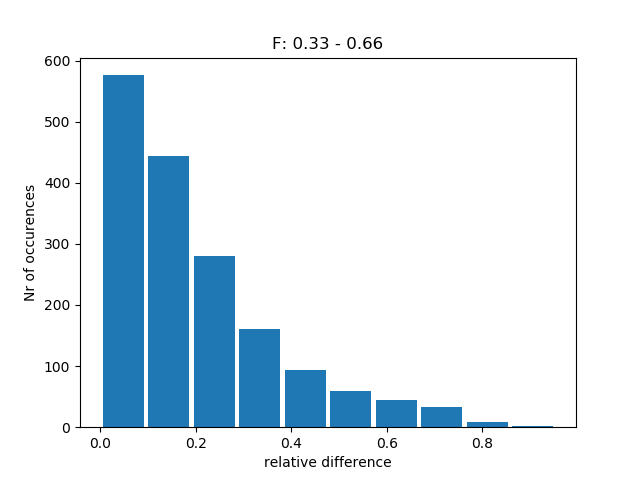
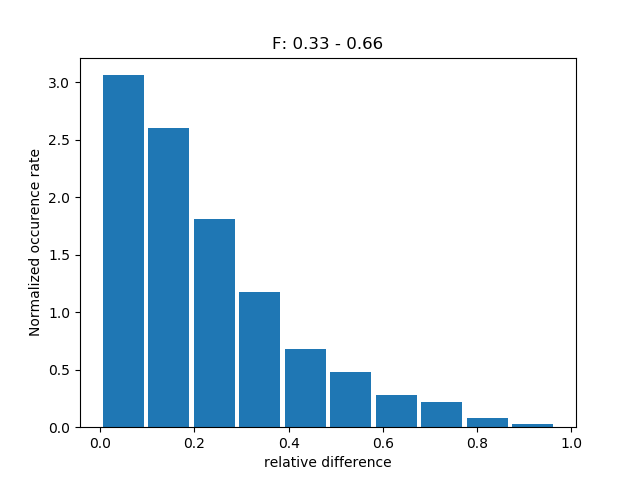
Started multi_SWARMreader.py; discovered holes in SWARM data

diff --git a/SWARM/multi_SWARMreader.py b/SWARM/multi_SWARMreader.py
@@ -1,0 +1,133 @@
+"""
+CDF_LIB must be in the correct file path to run
+"""
+import numpy as np
+import matplotlib.pyplot as plt
+from SWARMprocess import SWARMprocess
+from general_SWARMreader import GenSWARMread
+#setting path to cdf library
+from getpass import getuser
+usrname = getuser()
+import os
+os.environ["CDF_LIB"] = "/home/" + usrname +  "/Libraries/cdf/cdf36_3-dist/lib"
+from spacepy import pycdf
+
+
+class MultiSWARM():
+    """
+    Class for reading multiple files of SWARM data.
+    Designed for specific file structures.
+    """
+
+    def __init__(self, year1, month1, day1, year2, month2, day2):
+        """
+        parameters:
+            year1 - int; year of first data file
+            month1 - int; month of first data file
+            day1 - int; day of first data file
+            year2 - int; year of last data file
+            month2 - int; month of last data file
+            day2 - int; day of last data file
+        """
+        self.year1 = year1
+        self.month1 = month1
+        self.day1 = day1
+        self.year2 = year2
+        self.month2 = month2
+        self.day2 = day2
+
+        self.data_path = "/home/" + usrname +  "/Documents/Master/Swarm_Data"
+
+
+
+    def filenames(self, year, month, day):
+        """
+        Takes a date and returns a list of file path strings.
+        parameters:
+            year - int; year of data files yyyy
+            month - int; month of data files mm
+            day - int; day of data files dd
+        returns:
+            files - list; file paths on the form ["satA", "satB", "satC"]
+        """
+        data_path = self.data_path
+
+        year = str(year)
+        if len(year) != 4:
+            raise ValueError("year must be on form yyyy")
+
+        month = str(month)
+        if len(month) == 1:
+            month = "0" + month
+
+        day = str(day)
+        if len(day) == 1:
+            day = "0" + day
+
+        date = year + month + day
+        t0 = "T000000_"
+        t1 = "T235959_0501"
+
+        cdfA_path = data_path + "/Sat_A/SW_OPER_EFIA_LP_1B_" + date + t0 + date\
+        + t1 + ".CDF/SW_OPER_EFIA_LP_1B_" + date + t0 + date + t1 + "_MDR_EFI_LP.cdf"
+
+        cdfB_path = data_path + "/Sat_B/SW_OPER_EFIB_LP_1B_" + date + t0 + date\
+         + t1 + ".CDF/SW_OPER_EFIB_LP_1B_" + date + t0 + date + t1 + "_MDR_EFI_LP.cdf"
+
+        cdfC_path = data_path + "/Sat_C/SW_OPER_EFIC_LP_1B_" + date + t0 + date\
+         + t1 + ".CDF/SW_OPER_EFIC_LP_1B_" + date + t0 + date + t1 + "_MDR_EFI_LP.cdf"
+
+        files = [cdfA_path, cdfB_path, cdfC_path]
+
+        return(files)
+
+    def gen_filenames(self, ind):
+        """
+        Generalized version of filenames. Takes an index n and returns
+        filepaths of sats A, B and C for the day of the given index in directory.
+        example: ind 0 gives first day. ind 21 gives 21st day.
+        parameters:
+            ind - int; index of day in directory
+        returns:
+            files - list; list of filepaths on the form [satA, satB, satC]
+        """
+
+        pathA = self.data_path + "/Sat_A"
+        dirsA = os.listdir(pathA)
+        dirsA.sort()
+        pathA = pathA + "/" + dirsA[ind]
+        cdfA = os.listdir(pathA)
+        cdfA.sort()
+        pathA = pathA + "/" + cdfA[1]
+
+        pathB = self.data_path + "/Sat_B"
+        dirsB = os.listdir(pathB)
+        dirsB.sort()
+        pathB = pathB + "/" + dirsB[ind]
+        cdfB = os.listdir(pathB)
+        cdfB.sort()
+        pathB = pathB + "/" + cdfB[1]
+
+        pathC = self.data_path + "/Sat_A"
+        dirsC = os.listdir(pathC)
+        dirsC.sort()
+        pathC = pathC + "/" + dirsC[ind]
+        cdfC = os.listdir(pathC)
+        cdfC.sort()
+        pathC = pathC + "/" + cdfC[1]
+
+        files = [pathA, pathB, pathC]
+
+        print(pathA)
+        print(pathB)
+        print(pathC)
+        return(files)
+
+if __name__ == "__main__":
+    object = MultiSWARM(1,1,1,2,2,2)
+    files = object.gen_filenames(25)
+
+    genread = GenSWARMread(files[0], files[1], files[2])
+    hists, bins = genread.histmake()
+    plt.bar(bins[0], hists[0], width = (bins[0][1] - bins[0][0])*0.9)
+    plt.show()

diff --git a/SWARM/general_SWARMreader.py b/SWARM/general_SWARMreader.py
@@ -57,7 +57,8 @@ class GenSWARMread(SWARMprocess):
         self.BA_shift = self.timeshift_latitude(self.latB, self.latA)
         self.BC_shift = self.timeshift_latitude(self.latB, self.latC)
 
-    def histmake(self, n = 200, t0 = 0, t1 = 85000, minfreq = 0, maxfreq = True):
+    def histmake(self, n = 100, t0 = 0, t1 = 85000, minfreq = 0, maxfreq = True,\
+                 bins = 10):
         """
         make histograms of relative difference in integrated fouriers.
 
@@ -93,7 +94,6 @@ class GenSWARMread(SWARMprocess):
         fft_diff_AC = self.relative_diff(fft_intB, fft_intC)
 
         #making histograms
-        bins = 10
         histBA, binsBA = np.histogram(fft_diff_BA, bins = bins)
         histBC, binsBC = np.histogram(fft_diff_BC, bins = bins)
         histAC, binsAC = np.histogram(fft_diff_AC, bins = bins)
@@ -134,29 +134,48 @@ if __name__ == "__main__":
     BA_bins3 = bins[0]
     width3 = BA_bins3[1] - BA_bins3[0]
 
+    df1 = BA_bins1[1] - BA_bins1[0]
+    norm1 = np.sum(BA_hist1)*df1
+
+    df2 = BA_bins2[1] - BA_bins2[0]
+    norm2 = np.sum(BA_hist2)*df2
+
+    df3 = BA_bins3[1] - BA_bins3[0]
+    norm3 = np.sum(BA_hist3)*df3
+
     plt.figure(1)
-    plt.bar(BA_bins1, BA_hist1, width = width1*0.9)
+    plt.bar(BA_bins1, BA_hist1/norm1, width = width1*0.9)
     plt.title("F: 0 - 0.33")
     plt.xlabel("relative difference")
-    plt.ylabel("Nr of occurences")
+    plt.ylabel("Normalized occurance rate")
     plt.savefig("Figures/testhist_F_0_033.png")
 
     plt.figure(2)
-    plt.bar(BA_bins2, BA_hist2, width = width2*0.9)
+    plt.bar(BA_bins2, BA_hist2/norm3, width = width2*0.9)
     plt.title("F: 0.33 - 0.66")
     plt.xlabel("relative difference")
-    plt.ylabel("Nr of occurences")
+    plt.ylabel("Normalized occurence rate")
     plt.savefig("Figures/testhist_F_033_066.png")
 
     plt.figure(3)
-    plt.bar(BA_bins3, BA_hist3, width = width3*0.9)
+    plt.bar(BA_bins3, BA_hist3/norm3, width = width3*0.9)
     plt.title("F: 0.66 - 1")
     plt.xlabel("relative difference")
-    plt.ylabel("Nr of occurences")
+    plt.ylabel("Normalized occurence rate")
     plt.savefig("Figures/testhist_F_066_1.png")
     plt.show()
 
-    plt.plot(BA_bins1, BA_hist1)
-    plt.plot(BA_bins2, BA_hist2)
-    plt.plot(BA_bins3, BA_hist3)
+    plt.plot(BA_bins1, BA_hist1/norm1)
+    plt.plot(BA_bins2, BA_hist2/norm2)
+    plt.plot(BA_bins3, BA_hist3/norm3)
+    plt.legend(["0 - 0.33", "0.33 - 0.66", "0.66 - 1"])
+    plt.show()
+
+    BC_hist = hists[1]
+    BC_bins = bins[1]
+    dw = BC_bins[1] - BC_bins[0]
+    norm = np.sum(BC_hist)*dw
+
+    plt.plot(BA_bins3, BA_hist3/norm3)
+    plt.plot(BC_bins, BC_hist/norm)
     plt.show()

diff --git a/SWARM/test.py b/SWARM/test.py
@@ -1,39 +1,11 @@
 import numpy as np
 import matplotlib.pyplot as plt
-from SWARMprocess import SWARMprocess as pro
-from scipy.stats import pearsonr
+from os import listdir
+from getpass import getuser
+usrname = getuser()
 
-pro = pro()
-
-fs = 2
-t = 100
-n = int(fs*t)
-f0 = 0.2
-f1 = 0.3
-f2 = 0.4
-times = np.linspace(0, t, n)
-
-n_shifts = 100
-maxshift = 9.99
-shifts = np.linspace(0, maxshift, n_shifts)
-
-
-data1 = (np.sin(times*f0*2*np.pi) + np.sin(times*f1*2*np.pi))/2
-
-phases = []
-
-for shift in shifts:
-    times2 = np.linspace(shift, t + shift, n)
-    data2 = (np.sin(times2*f0*2*np.pi) + np.sin(times2*f2*2*np.pi))/2
-    cross_spec = pro.cross_spectrum(data1, data2)[:int(n/2)]
-    phase = np.arctan2(np.imag(cross_spec), np.real(cross_spec))
-    freqs = np.linspace(0, fs/2, int(n/2))
-    ind = int(np.round(f0/fs*2*((n/2)-1)))
-    phases.append(phase[ind])
-
-
-plt.plot(shifts, phases)
-plt.xlabel("Time shifted")
-plt.ylabel("phase of cross spectrum")
-plt.title("Cross spectrum phase at frequency = %g" % f0)
-plt.show()
+path = "/home/" + usrname +  "/Documents/Master/Swarm_Data"
+dirsA = listdir(path + "/Sat_A")
+cdfA = listdir(path + "/Sat_A/" + dirsA[53])
+cdfA_path = path + "/sat_A/" + dirsA[53] + "/" + cdfA[0]
+print(cdfA_path)

diff --git a/SWARM/SWARMprocess.py b/SWARM/SWARMprocess.py
@@ -446,7 +446,7 @@ class SWARMprocess():
 
         return(times, CSD_int)
 
-    def relative_diff(self, array1, array2):
+    def relative_diff(self, array1, array2, abs = True, norm = True):
         """
         Takes 2 arrays and returns relative difference
         |array1 - array2|/max(array1, array2)
@@ -460,14 +460,18 @@ class SWARMprocess():
 
         assert len(array1)==len(array2), "array1 and array2 must be of equal length"
 
-        diff = np.abs(array1 - array2)
+        if abs:
+            diff = np.abs(array1 - array2)
+        else:
+            diff = array1 - array2
 
         normals = np.zeros_like(array1) #normalization array
 
         for i in range(len(normals)):
             normals[i] = np.max(np.array([array1[i], array2[i]]))
 
-        diff = diff/normals
+        if norm:
+            diff = diff/normals
         return(diff)
 
 
